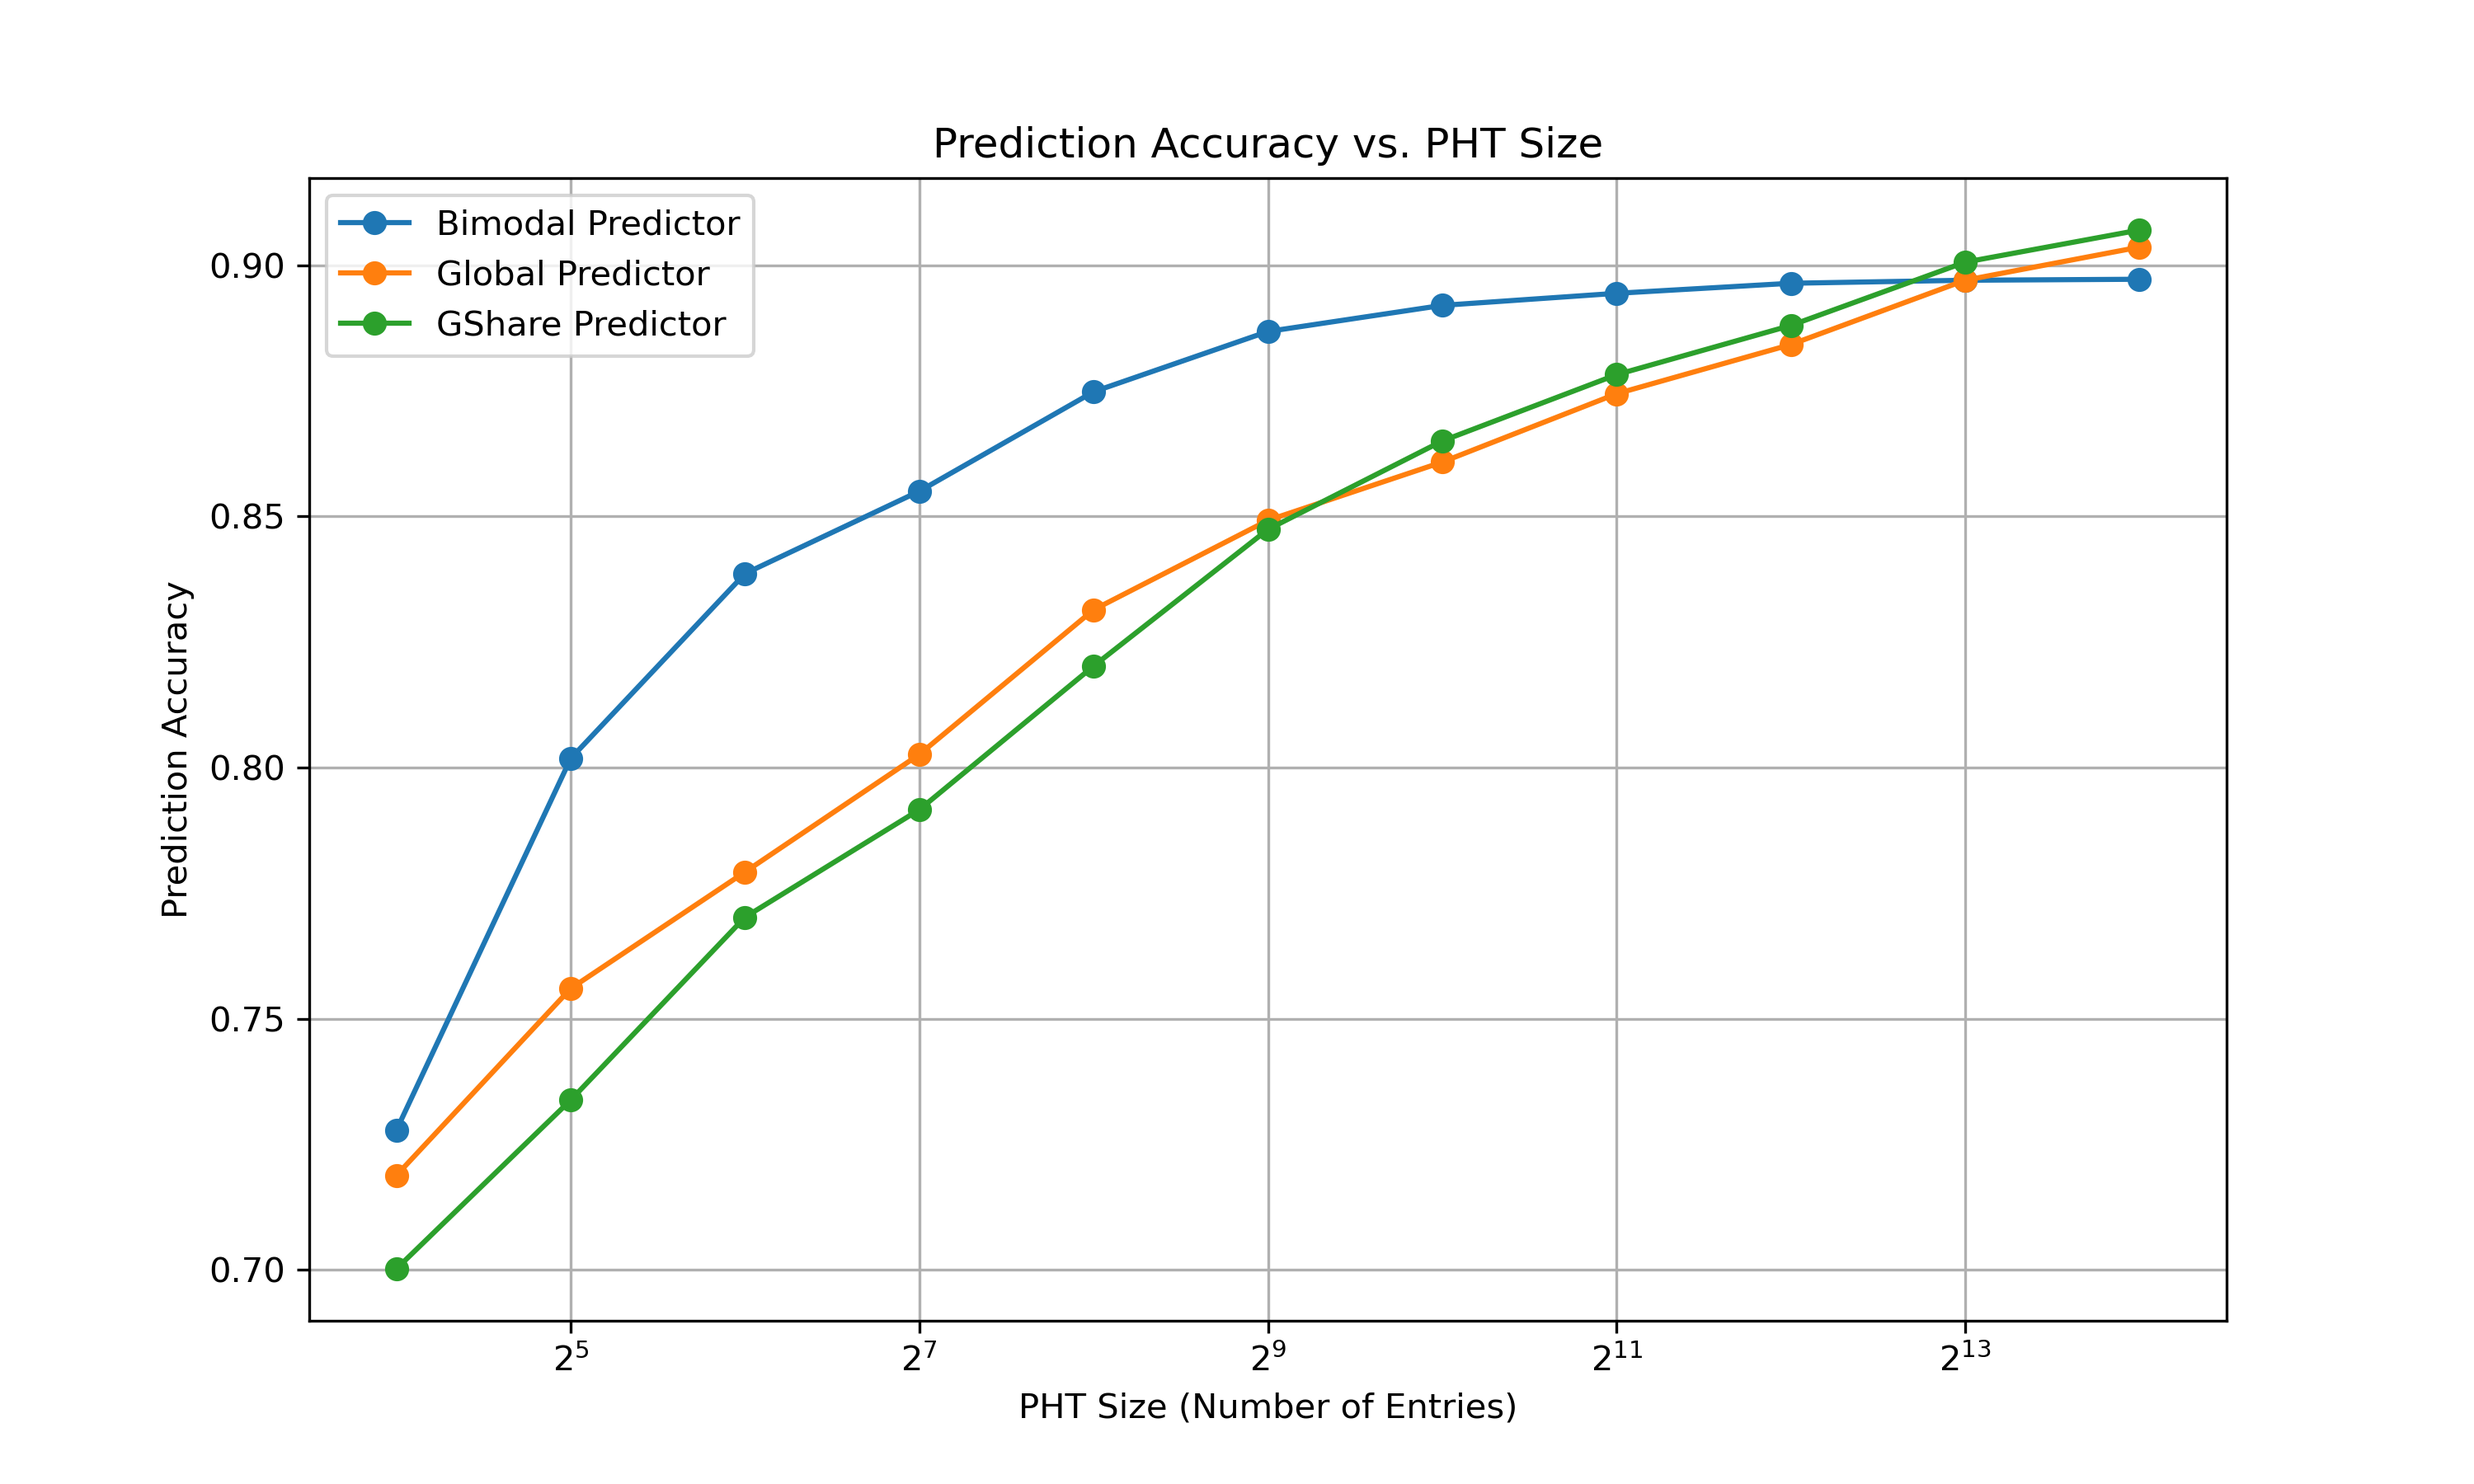
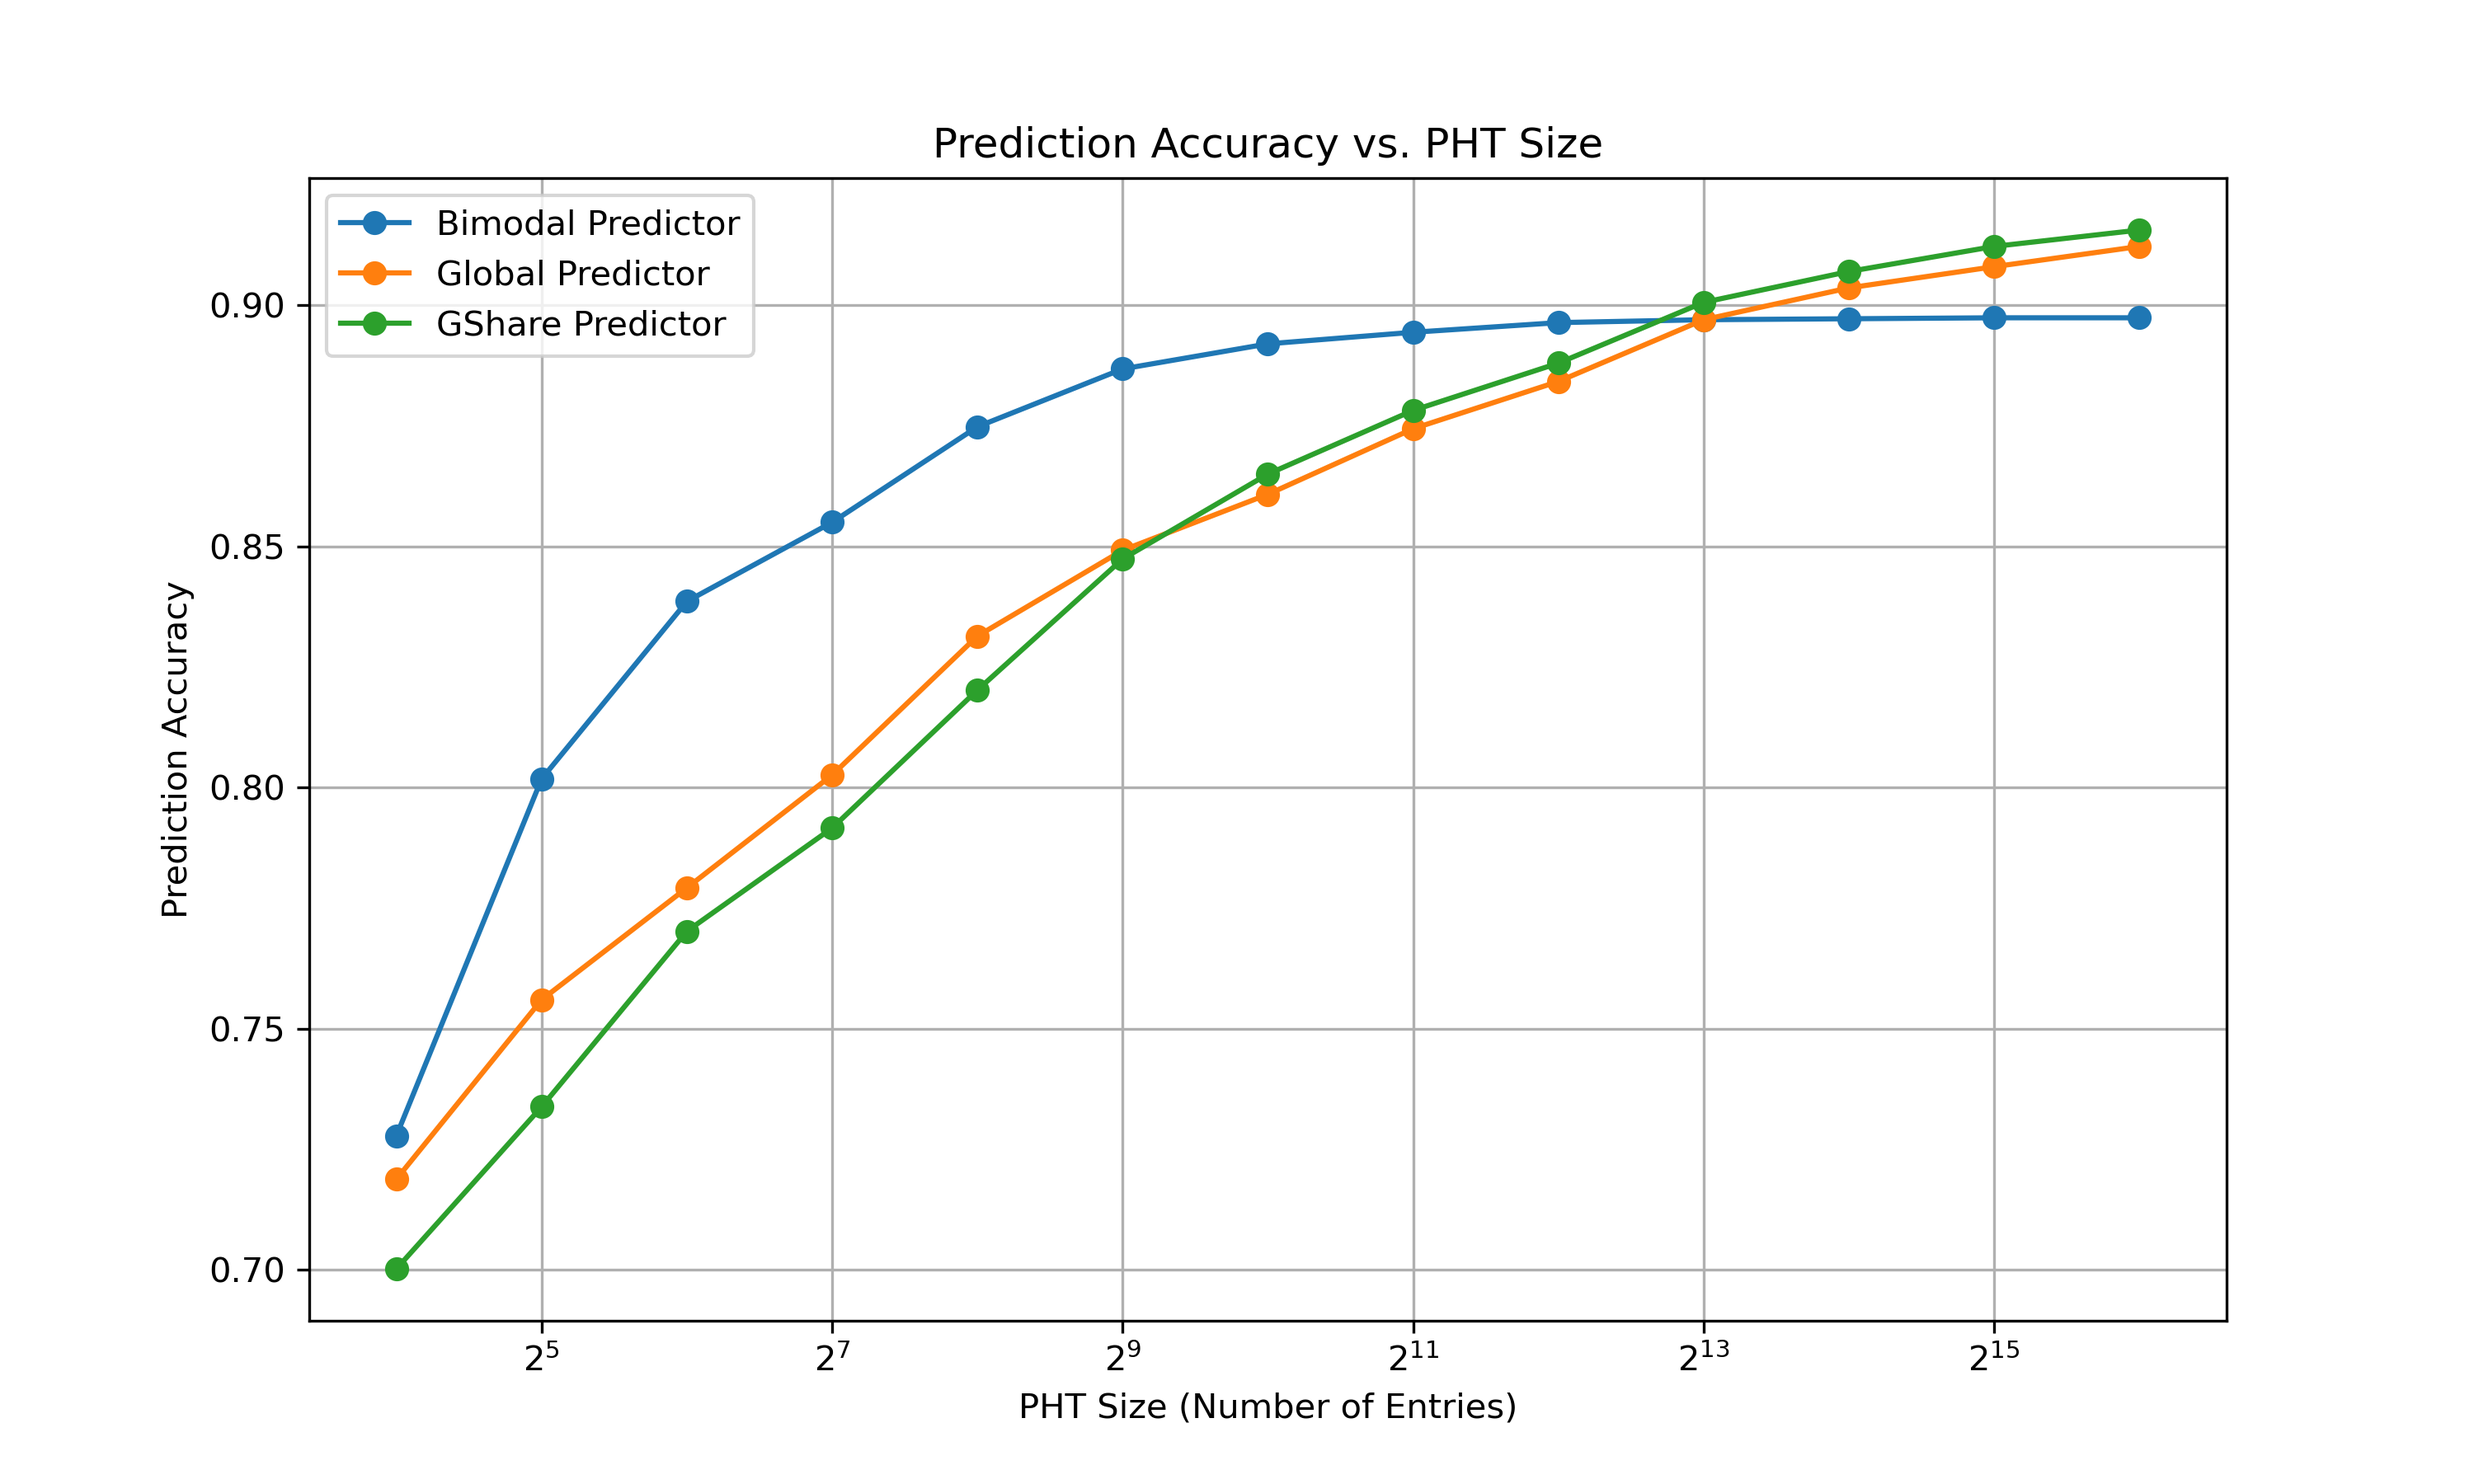
Evaluation graph change

diff --git a/branch-predictor-benchmark/src/graph.py b/branch-predictor-benchmark/src/graph.py
@@ -2,7 +2,7 @@ import matplotlib.pyplot as plt
 
 # Function to calculate prediction accuracy for different PHT sizes
 def get_accuracy():
-    pht_sizes = [2 ** i for i in range(4, 15)]  # List to store PHT sizes (power of two between 16 and 16384)
+    pht_sizes = [2 ** i for i in range(4, 17)]  # List to store PHT sizes (power of two between 16 and 16384)
     bimodal_accuracy = []  # List to store accuracy for Bimodal Predictor
     global_accuracy = []  # List to store accuracy for Global Predictor
     gshare_accuracy = []  # List to store accuracy for GShare Predictor
